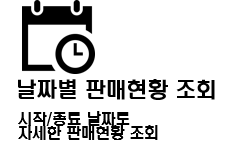
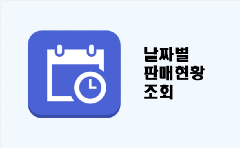
현황조회 버튼 교체

diff --git a/src/main/java/yi_java3st_1team/viewsmanagement/ui/panel/MainPanel.java b/src/main/java/yi_java3st_1team/viewsmanagement/ui/panel/MainPanel.java
@@ -60,9 +60,9 @@ public class MainPanel extends JPanel implements ActionListener {
 		btn01.setBackground(Color.WHITE);
 		btn01.setFocusable(false);
 		btn01.addActionListener(this);
-		btn01.setIcon(new ImageIcon("D:\\workspace\\workspace_gradle\\yi_java3st_1team\\images\\reportMenu\\기본1.png"));
+		btn01.setIcon(new ImageIcon("D:\\workspace\\workspace_gradle\\yi_java3st_1team\\images\\reportMenu\\btn01.png"));
 		btn01.setPreferredSize(new Dimension(250, 170));
-		btn01.setBounds(219, 59, 250, 170);
+		btn01.setBounds(219, 70, 240, 148);
 		btn01.setFont(new Font("굴림", Font.PLAIN, 15));
 		pBtns.add(btn01);
 		
@@ -70,10 +70,10 @@ public class MainPanel extends JPanel implements ActionListener {
 		btn02.setBackground(new Color(255, 245, 238));
 		btn02.setFocusable(false);
 		btn02.addActionListener(this);
-		btn02.setIcon(new ImageIcon("D:\\workspace\\workspace_gradle\\yi_java3st_1team\\images\\reportMenu\\기본2.png"));
+		btn02.setIcon(new ImageIcon("D:\\workspace\\workspace_gradle\\yi_java3st_1team\\images\\reportMenu\\btn02_1.png"));
 		btn02.setPreferredSize(new Dimension(250, 170));
 		btn02.setSize(new Dimension(270, 190));
-		btn02.setBounds(494, 59, 250, 170);
+		btn02.setBounds(494, 70, 240, 148);
 		btn02.setFont(new Font("굴림", Font.PLAIN, 15));
 		pBtns.add(btn02);
 		
@@ -81,10 +81,10 @@ public class MainPanel extends JPanel implements ActionListener {
 		btn03.setBackground(new Color(245, 255, 250));
 		btn03.setFocusable(false);
 		btn03.addActionListener(this);
-		btn03.setIcon(new ImageIcon("D:\\workspace\\workspace_gradle\\yi_java3st_1team\\images\\reportMenu\\기본3.png"));
+		btn03.setIcon(new ImageIcon("D:\\workspace\\workspace_gradle\\yi_java3st_1team\\images\\reportMenu\\btn03.png"));
 		btn03.setPreferredSize(new Dimension(250, 170));
 		btn03.setSize(new Dimension(270, 190));
-		btn03.setBounds(768, 59, 250, 170);
+		btn03.setBounds(768, 70, 240, 148);
 		btn03.setFont(new Font("굴림", Font.PLAIN, 15));
 		pBtns.add(btn03);
 		
@@ -92,10 +92,10 @@ public class MainPanel extends JPanel implements ActionListener {
 		btn04.setBackground(new Color(245, 255, 250));
 		btn04.setFocusable(false);
 		btn04.addActionListener(this);
-		btn04.setIcon(new ImageIcon("D:\\workspace\\workspace_gradle\\yi_java3st_1team\\images\\reportMenu\\그림1 (3).png"));
+		btn04.setIcon(new ImageIcon("D:\\workspace\\workspace_gradle\\yi_java3st_1team\\images\\reportMenu\\btn04.png"));
 		btn04.setPreferredSize(new Dimension(250, 170));
 		btn04.setSize(new Dimension(270, 190));
-		btn04.setBounds(219, 257, 250, 170);
+		btn04.setBounds(219, 257, 240, 148);
 		btn04.setFont(new Font("굴림", Font.PLAIN, 15));
 		pBtns.add(btn04);
 		
@@ -103,10 +103,10 @@ public class MainPanel extends JPanel implements ActionListener {
 		btn05.setBackground(new Color(255, 245, 238));
 		btn05.setFocusable(false);
 		btn05.addActionListener(this);
-		btn05.setIcon(new ImageIcon("D:\\workspace\\workspace_gradle\\yi_java3st_1team\\images\\reportMenu\\기본2.png"));
+		btn05.setIcon(new ImageIcon("D:\\workspace\\workspace_gradle\\yi_java3st_1team\\images\\reportMenu\\btn05.png"));
 		btn05.setPreferredSize(new Dimension(250, 170));
 		btn05.setSize(new Dimension(270, 190));
-		btn05.setBounds(494, 257, 250, 170);
+		btn05.setBounds(494, 257, 240, 148);
 		btn05.setFont(new Font("굴림", Font.PLAIN, 15));
 		pBtns.add(btn05);
 		
@@ -114,11 +114,11 @@ public class MainPanel extends JPanel implements ActionListener {
 		btn06.setBackground(Color.WHITE);
 		btn06.setFocusable(false);
 		btn06.addActionListener(this);
-		btn06.setIcon(new ImageIcon("D:\\workspace\\workspace_gradle\\yi_java3st_1team\\images\\reportMenu\\기본1.png"));
+		btn06.setIcon(new ImageIcon("D:\\workspace\\workspace_gradle\\yi_java3st_1team\\images\\reportMenu\\btn06.png"));
 		btn06.setSize(new Dimension(270, 190));
 		btn06.setPreferredSize(new Dimension(250, 170));
 		btn06.setFont(new Font("굴림", Font.PLAIN, 15));
-		btn06.setBounds(768, 257, 250, 170);
+		btn06.setBounds(768, 257, 240, 148);
 		pBtns.add(btn06);
 	}
 	public void actionPerformed(ActionEvent e) {
